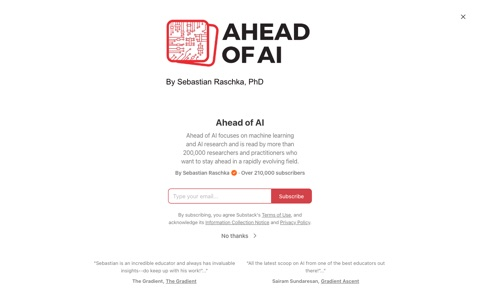
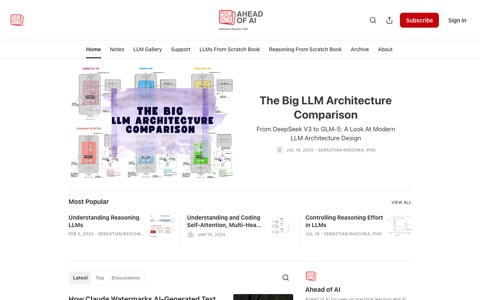
Notes index: retake the two Substack thumbnails without the subscribe overlay

diff --git a/notes/index.html b/notes/index.html
@@ -43,7 +43,7 @@ footer a{color:inherit}
 <!--
   HOW TO ADD AN ENTRY — copy one <li class="entry"> block into the right section.
     <a class="thumb-link" href="URL"><img class="thumb" src="/notes/thumbs/NAME.jpg" ...></a>
-      480×300 JPEG: headless Chrome --window-size=1280,800 --screenshot, then sips -z 300 480
+      480×300 JPEG: headless Chrome --window-size=1280,800 --screenshot, then sips -z 300 480 (Substack sites: append ?no_cover=true to skip the subscribe overlay)
     <div class="body"> … </div>                 wraps the three lines below
     <h2><a href="URL">Title</a></h2>          the link
     <p class="desc">One line on what it is.</p>
